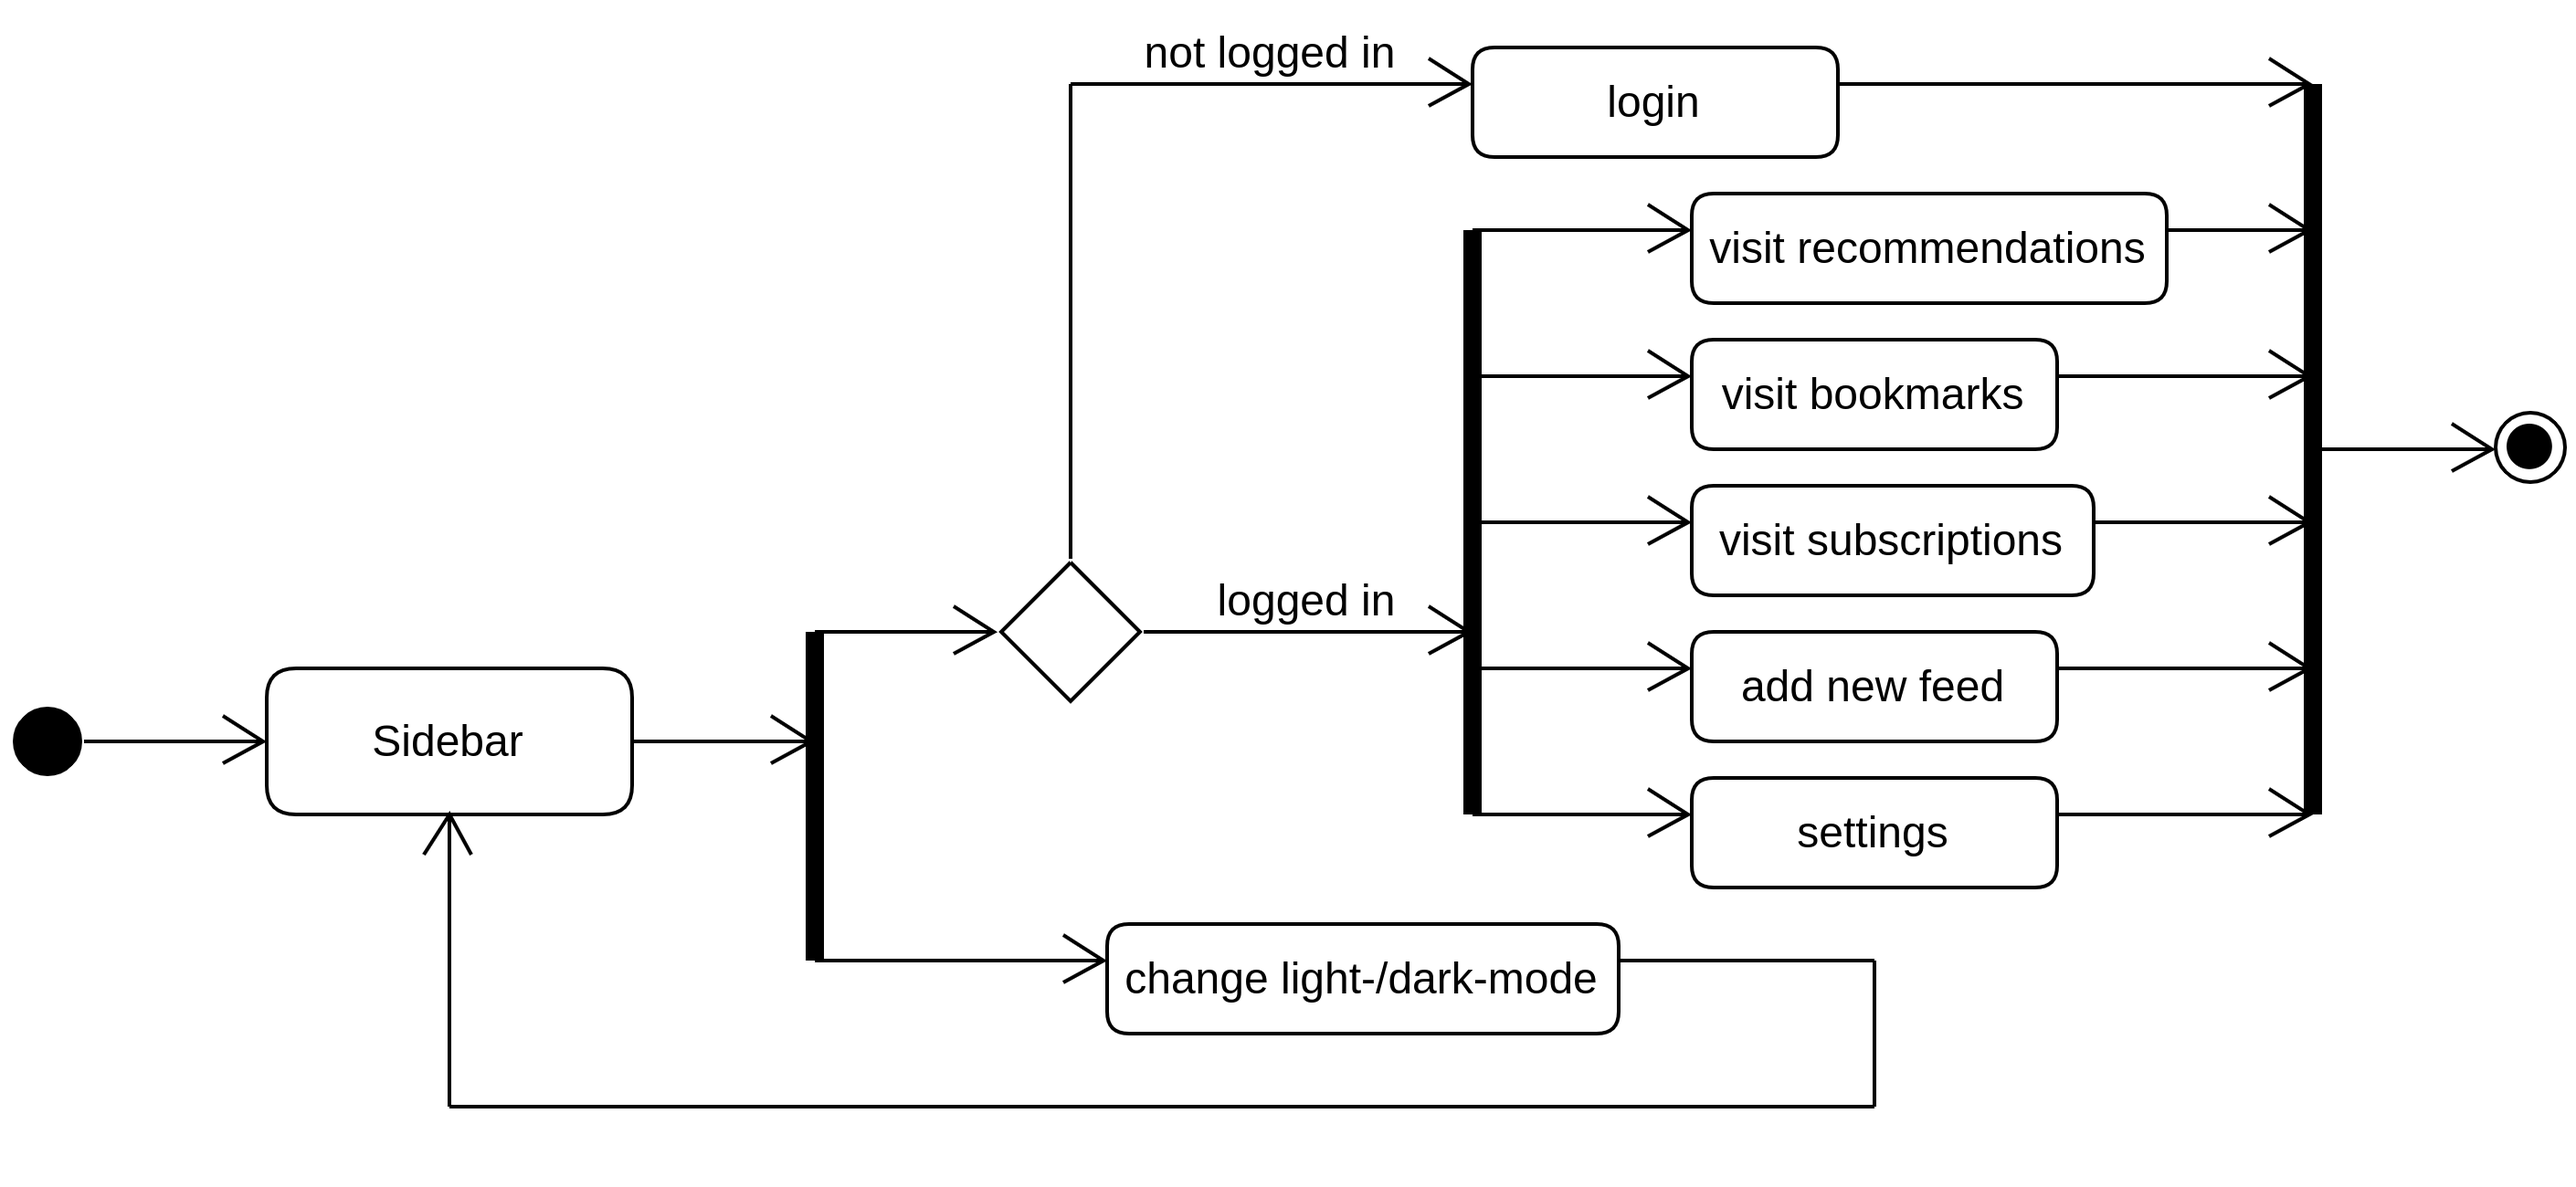
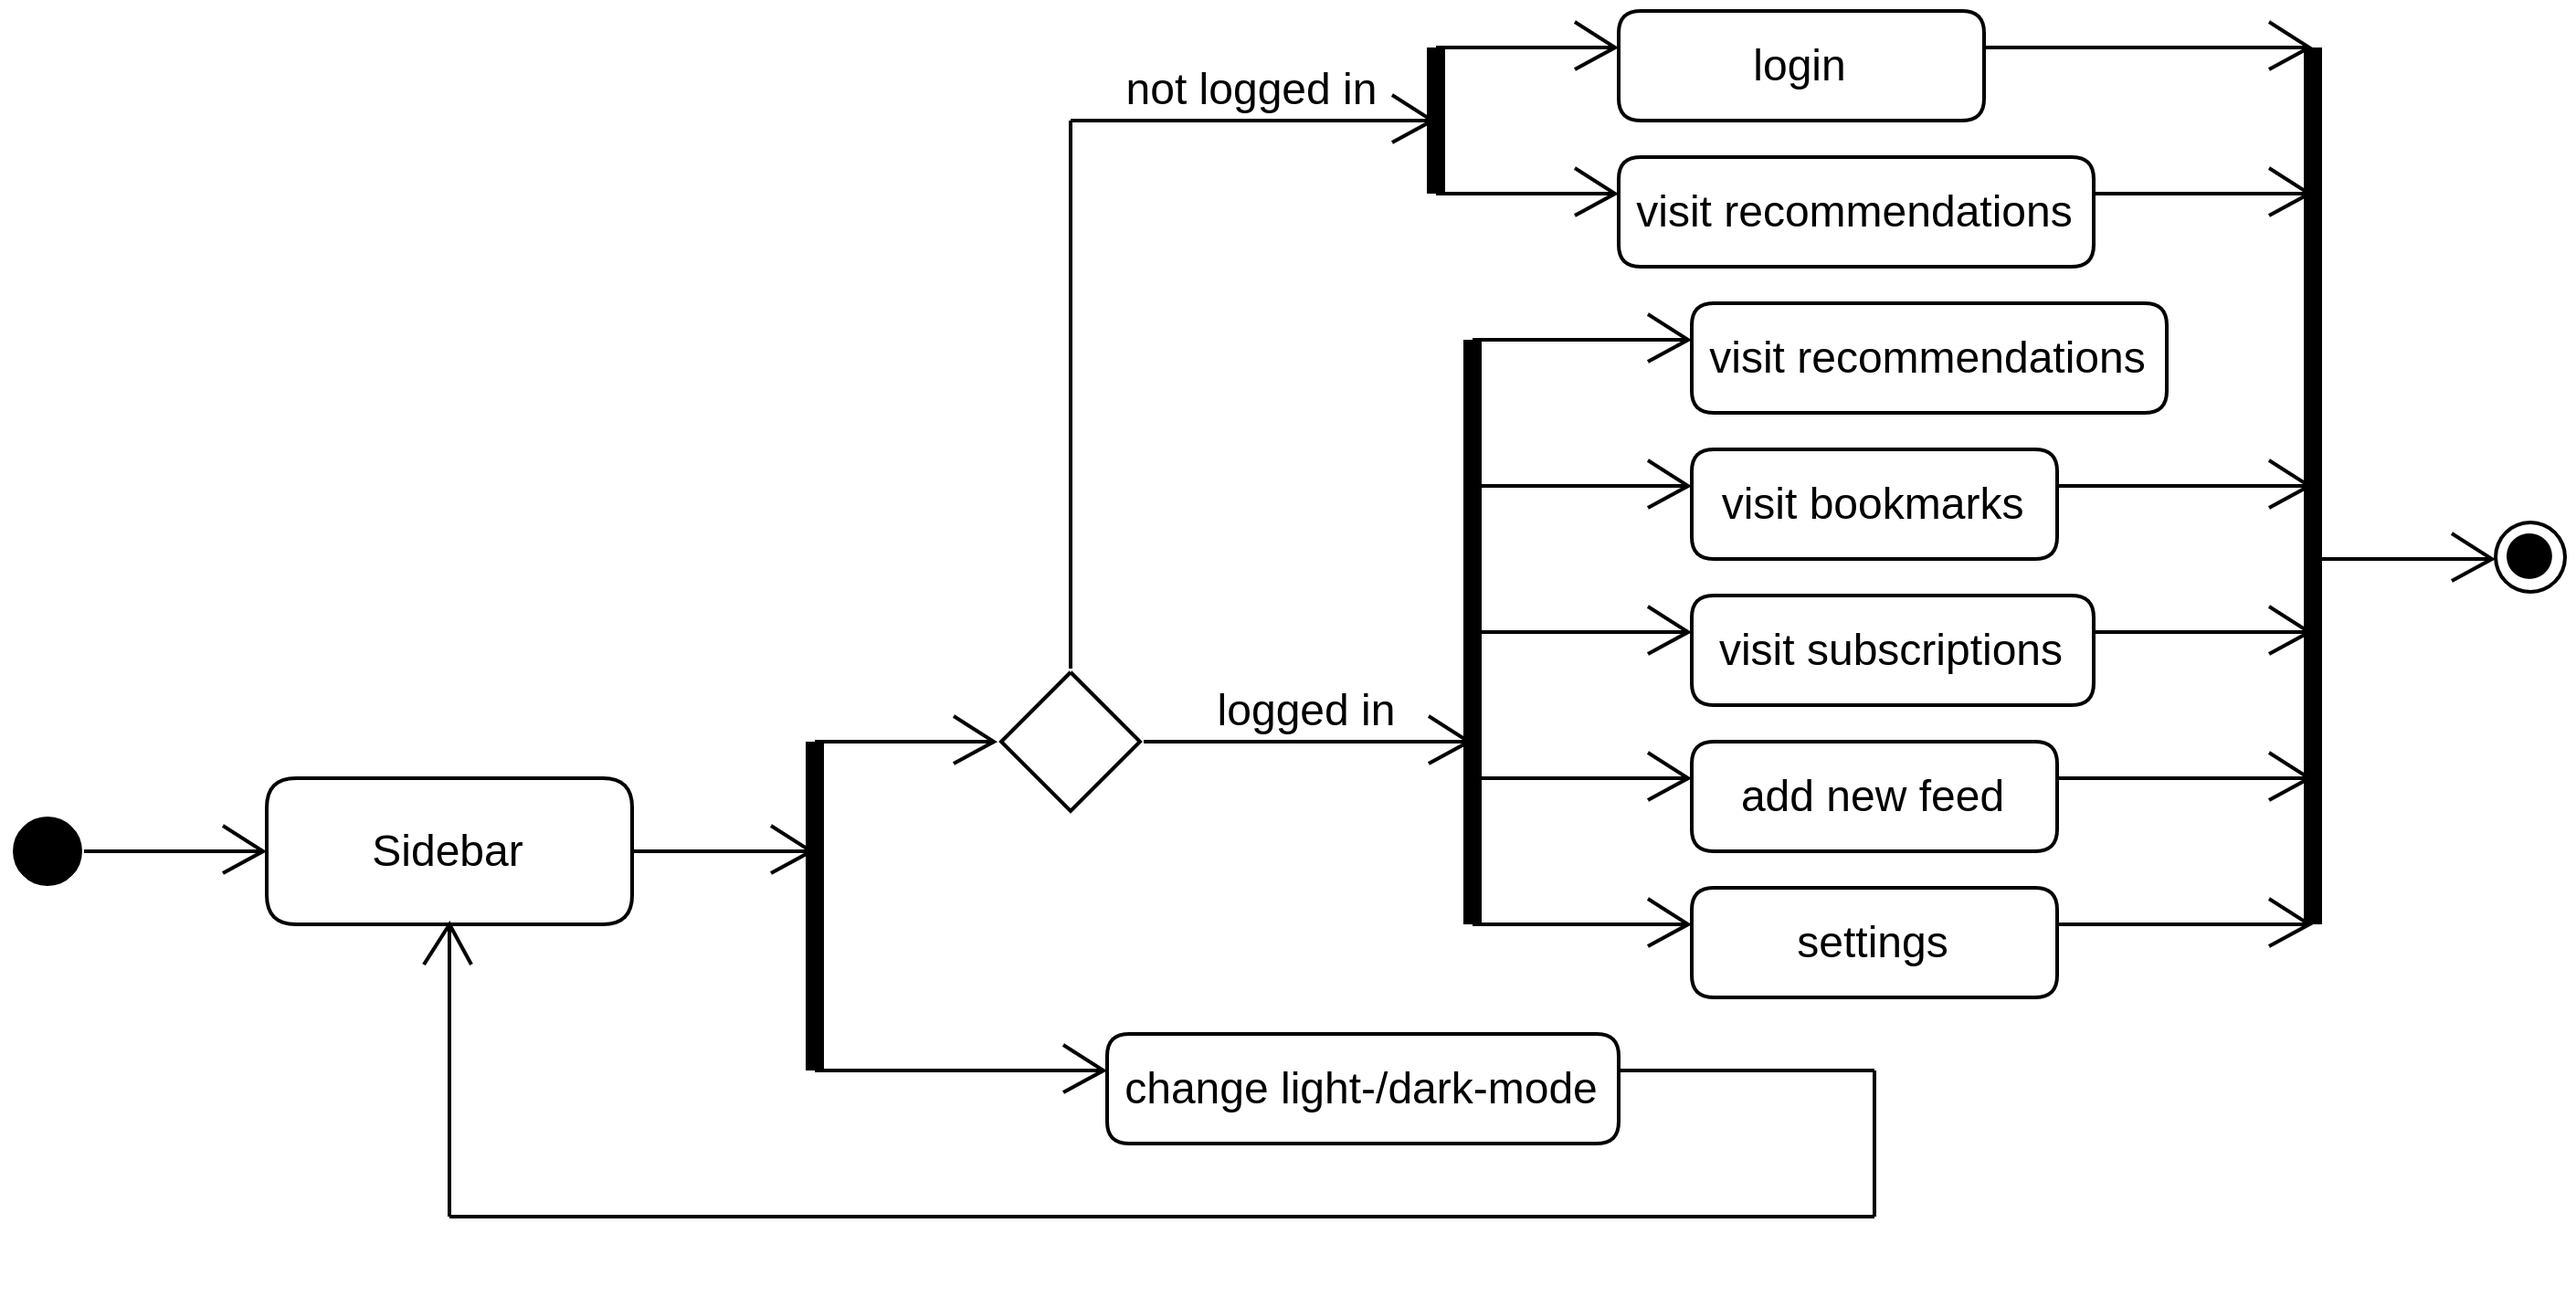
Siderbar UML und Text korrigiert

diff --git a/content/05kapitel.tex b/content/05kapitel.tex
@@ -349,8 +349,9 @@ Die Seitenleiste ist auf jeder Seite mit Außnahme Login- und Registrierungsseit
 In Abbildung~\ref{fig:umlActivitySidebar.png} werden die möglichen Aktionen der Seitenleiste dargestellt.
 Von dieser kann direkt zwischen Dark- und Light-Mode umgeschalten werden. Zudem kann man sich einloggen
 oder falls bereits geschehen auf die Einstellungen gewechselt werden. Die Schaltfläche des Login wird nach erfolgreichem Login auf Settings geändert.
-Unter der Voraussetzung, dass der Benutzer eingeloggt ist, kann direkt zu den
-Empfehlungen, den Lesezeichen und den Abonnements gewechselt werden. Zusätzlich kann direkt ein neuer RSS Feed hinzugefügt werden.
+Es kann immer auf die Empfehlungen zugegriffen werden, sowohl als eingeloggter wie auch als nicht eingeloggter Nutzer.
+Unter der Voraussetzung, dass der Benutzer eingeloggt ist, kann direkt zu den Lesezeichen und den Abonnements gewechselt werden.
+Zusätzlich kann direkt ein neuer RSS Feed hinzugefügt werden.
 \begin{figure}
     \includegraphics[width=\linewidth]{umlActivitySidebar.png}
     \caption{Aktivitätsdiagramm der Seitenleiste}
